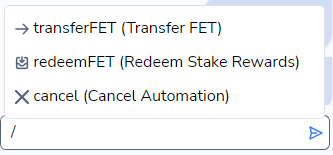
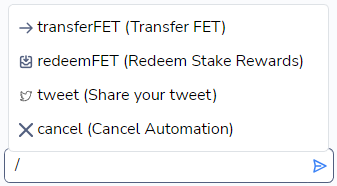
Add tweet command to fetchbot (#231)

diff --git a/packages/extension/src/config.ui.var.ts b/packages/extension/src/config.ui.var.ts
@@ -84,6 +84,12 @@ export const AGENT_COMMANDS = [
     enabled: true,
   },
   {
+    command: "/tweet",
+    label: "tweet (Share your tweet)",
+    icon: require("@assets/icon/agent-tweet.svg"),
+    enabled: true,
+  },
+  {
     command: "/cancel",
     label: "cancel (Cancel Automation)",
     icon: closeIcon,
